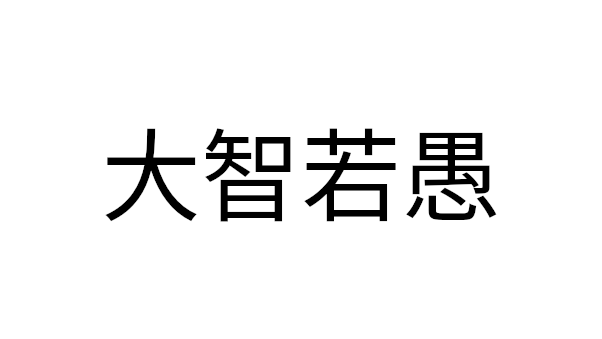
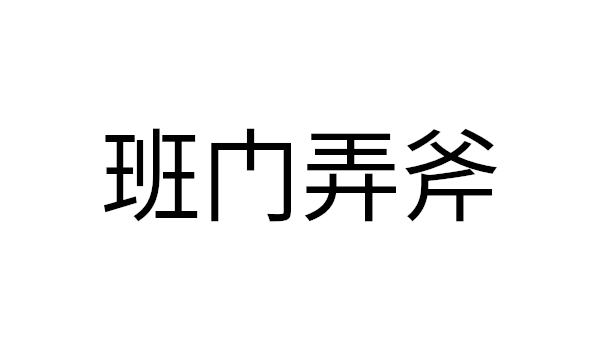
fix linx

Changed region(s): [[0.1495, 0.354, 0.8372, 0.6785]]

diff --git a/assets/scripts.js b/assets/scripts.js
@@ -2,21 +2,21 @@ $(document).ready(function () {
   const CHENG = [
     {
       src: "./assets/images/cy1.png",
-      pinyin: "bù kě dé jiān",
-      wtm: "You can't have both at the same time.",
-      more: ""
+      pinyin: "bá miáo zhù zhǎng",
+      wtm: "To pull seedlings [out of the ground] to help them grow.",
+      more: "https://laowaichengyuguide.com/entry/拔苗助长"
     },
     {
       src: "./assets/images/cy2.png",
-      pinyin: "dà zhì ruò yú",
-      wtm: "The wise one appears stupid.",
-      more: ""
+      pinyin: "bān mén nòng fǔ",
+      wtm: "To show off with an axe to 鲁班 (Lǔ Bān).",
+      more: "https://laowaichengyuguide.com/entry/班门弄斧"
     },
     {
       src: "./assets/images/cy3.png",
-      pinyin: "zhī zú cháng lè",
-      wtm: "To be content with what you have.",
-      more: ""
+      pinyin: "běn mò dào zhì",
+      wtm: "To invert tree roots and tree branches.",
+      more: "https://laowaichengyuguide.com/entry/本末倒置"
     },
     {
       src: "./assets/images/cy4.png",
@@ -40,7 +40,7 @@ $(document).ready(function () {
       src: "./assets/images/main-qimg-4833d2d626ec99f5da661dd633c0a002.png",
       pinyin: "mǎ mǎ hǔ hǔ",
       wtm: "Horse horse tiger tiger, obvi.",
-      more: "https://laowaichengyuguide.com/entry/m%C7%8E%20m%C7%8E%20h%C7%94%20h%C7%94"
+      more: "https://laowaichengyuguide.com/entry/马马虎虎"
     },
   ];
 
